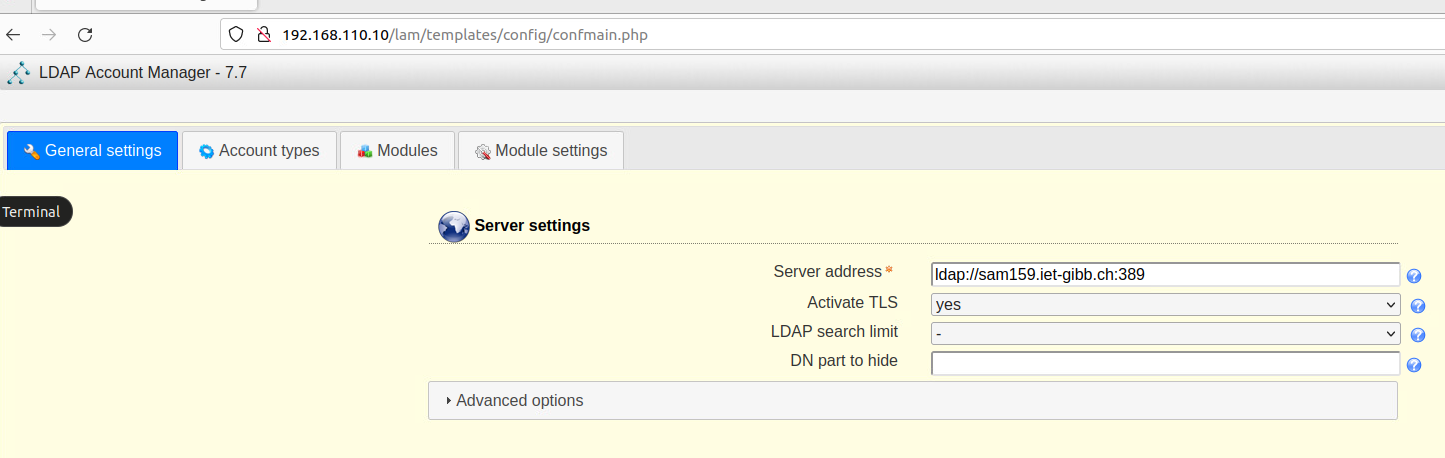
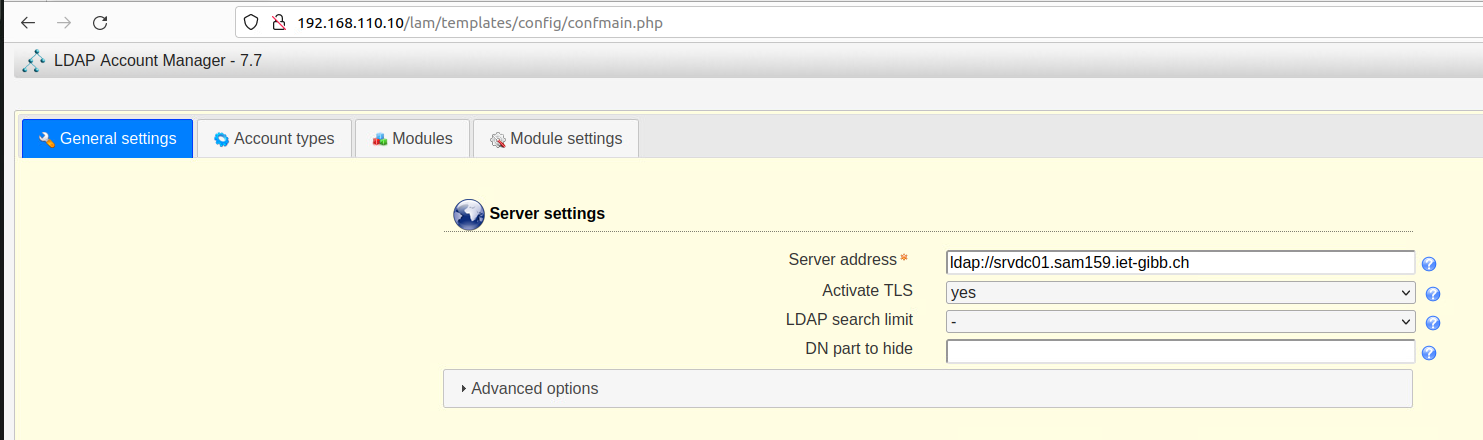
Added setup of fileservice + configuration in registry

diff --git a/README.md b/README.md
@@ -18,6 +18,12 @@ All of the Servers need to be able to communicate to each other via IPv4.
 
 As this is done for a school project the realm is called "sam159.iet-gibb.ch", but feel free to take whatever name you want to use.
 
+
+
+
+
+
+
 ### Configure DNS Server and Hostname (SRVDC01)
 
 On the SRVDC01 do this in the */etc/hosts* file:
@@ -32,6 +38,11 @@ srvdc01.sam159.iet-gibb.ch
 ```
 
 On every other Server set the **IP** of the SRVDC01 as DNS Server and **sam159.iet-gibb.ch** as search-domain (or distribute it via dhcp service)
+
+
+
+
+
 
 ### Samba installation (SRVDC01)
 
@@ -91,17 +102,17 @@ If the */etc/resolv.conf* file still has a softlink on it, remove it and create 
 Check if all settings were configured correctly in the */etc/samba/smb.conf*, it should now look simular to this:
 ```bash
 [global]
-dns forwarder = 1.1.1.1
-netbios name = SRVDC01
-realm = SAM159.IET-GIBB.CH
-server role = active directory domain controller
-workgroup = SAM159
+    dns forwarder = 1.1.1.1
+    netbios name = SRVDC01
+    realm = SAM159.IET-GIBB.CH
+    server role = active directory domain controller
+    workgroup = SAM159
 [netlogon]
-path = /var/lib/samba/sysvol/sam159.iet-gibb.ch/scripts
-read only = No
+    path = /var/lib/samba/sysvol/sam159.iet-gibb.ch/scripts
+    read only = No
 [sysvol]
-path = /var/lib/samba/sysvol
-read only = No
+    path = /var/lib/samba/sysvol
+    read only = No
 ```
 
 
@@ -133,6 +144,10 @@ Now restart the server:
 ```bash
 sudo reboot
 ```
+
+
+
+
 #### Test Services
 
 You can test if the setup works by checking if the samba (bzw. smbd) service is listening to following ports:
@@ -165,6 +180,11 @@ host -t A srvdc01.sam159.iet-gibb.ch
 ```
 
 But as we all know, real men test in production.
+
+
+
+
+
 
 #### Set up DNS Records
 
@@ -217,6 +237,11 @@ Finally you can display the FSMO Rules with the command:
 sudo samba-tool fsmo show
 ```
 
+
+
+
+
+
 ### Setup LDAP Account Manager (LAM)
 
 The LDAP Account Manager is a really ugly webinterface that basically provides a user-friendly interface to work with LDAP.
@@ -235,6 +260,11 @@ As Samba as well as LAM is officially retarded they still think unencrypted LDAP
 **INFORMATION**: StartTLS is a technique that connects the client over the unencrypted LDAP (389) and then upgrades the connection to run on top of TLS. This is really flexible as it allows you to run the connection over the LDAP Port (389) while not blocking the unencrypted LDAP portbinding.
 
 
+
+
+
+
+
 #### Setup LDAP+SSL on Samba Server
 
 To setup LDAP with StartTLS on the Samba service we need to have a SSL certificate, this can be done in three ways, using a Self-Signed Certificate (comes with limitations), using a Lets-Encrypt certificate or if you're really whealty, you can also buy a official signed certificate.
@@ -242,6 +272,11 @@ To setup LDAP with StartTLS on the Samba service we need to have a SSL certifica
 I will show you how to do it with Lets-Encrypt and with a Self-Signed certificate, if you use a officially signed certificate, you just need to add it to the *smb.conf*. 
 
 Keep in mind that you need to be the owner of the public domain if you use Lets-Encrypt, as I'm not the owner of *iet-gibb.ch*, I will use the way of the Self-Signed certificate in this tutorial, when using Lets-Encrypt it will be way easier and you can ommit some steps later on.
+
+
+
+
+
 
 ##### Lets-Encrypt Certificate
 
@@ -287,6 +322,8 @@ If you previously installed the *ldap-utils* you can now check the connections w
 # The ZZ Flag tells the ldap client to use StartTLS
 ldapsearch -H ldap://srvdc01.sam159.iet-gibb.ch -x -ZZ
 ```
+
+
 
 ##### Self Signed Certificate
 
@@ -348,6 +385,11 @@ Remember, if you use a self signed certificate authority (ca certificate) you wi
 
 
 
+
+
+
+
+
 #### Setup LDAP+SSL on LAM
 
 Now lets configure the LAM service to use the LDAP via StartTLS.
@@ -375,11 +417,15 @@ sudo ln -f /etc/ldap.conf /etc/ldap/ldap.conf
 # As some LAM versions also look for the config inside the /etc/ldap directory
 
 # Now set Read+Execute rights for the LDAP conf as apache2 doesn't run with root privileges.
-sudo chmod 755 ldap.conf
-sudo chmod 755 -R ldap
+sudo chmod 755 /etc/ldap.conf
+sudo chmod 755 -R /etc/ldap
 
 sudo systemctl restart apache2
 ```
+
+
+
+
 
 
 #### Setup LAM Profile
@@ -418,3 +464,206 @@ ldap server require strong auth = no
 ```
 
 Another issue that I've experienced is that the format: **cn=Administrator,cn=users,dc=sam159dc=iet-gibb,dc=ch** in the **List of valid user** is not working on some LAM versions, to solve it just use the user in this format: **Administrator@sam159.iet-gibb.ch**.
+
+
+After logging into the LAM interface, you can test the system by creating a user and then fetching a tgt on the server.
+
+For this, first create a user in the LDAP Account Manager.
+
+![LAM User Configuration](/assets/lamconf02.png)
+Remember to set the password for the user!
+
+To get the tgt on the server (you can also do it from a client):
+```bash
+kinit -r SAM159.IET-GIBB.CH -p felix.blume && klist
+```
+
+**INFORMATION**: The DN attribute in the LDAP Account Manager is the DistinguishedName and refers to full LDAP "path" of the user.
+Example: The user "*felix.blume*" in the OU "*users*" in the domain "*sam159.iet-gibb.ch*" has following DN: 
+"*cn=felix blume,cn=users,dc=sam159,dc=iet-gibb,dc=ch*"
+You can get the DistinguishedName,SID and other user related information like this:
+```bash
+samba-tool user show felix.blume
+```
+
+
+
+
+
+
+### Set up fileservice (SRVFS01)
+
+
+We now want to set up SRVFS01. To do this, you will need an Ubuntu server configured to use the search domain and DNS server that we set up earlier.
+
+In the commands/examples I will use following configuration:
+- Server-IP: 192.168.110.20
+- DNS: 192.168.110.10
+- Search-Domain: sam159.iet-gibb.ch
+
+
+First you need to install the samba tools aswell as the kerberos heimdal client:
+
+```bash
+# As realm you need to set sam159.iet-gibb.ch
+sudo apt install samba samba-common-bin smbclient heimdal-clients libpam-heimdal
+```
+
+**INFORMATION**: Because Linux ext4 filesystem uses UID (User IDs) and GID (Group IDs) while NTFS has a format called SID (Security IDs), Samba needs a tool like *winbind* that translates various things like the mentioned SID to UID/GID or the NTFS permissions into ext4 acl-controls vice-versa.
+
+Then we also need the winbind-tools to be installed:
+
+```bash
+sudo apt install libnss-winbind libpam-winbind
+```
+
+To make samba use the winbind translator, you need to adjust the */etc/samba/smb.conf* with following attributes under the [global] section:
+
+```bash
+[global]
+  workgroup = sam159
+  realm = SAM159.IET-GIBB.CH
+  security = ADS
+  winbind use default domain = yes
+  winbind refresh tickets = yes
+  template shell = /bin/bash
+  idmap config * : range = 10000 - 19999
+  idmap config SAM159 : backend = rid
+  idmap config SAM159 : range = 1000000 - 1999999
+  inherit acls = yes
+  store dos attributes = yes
+  client ipc signing = auto
+  vfs objects = acl_xattr
+```
+
+Check the configuration with:
+
+```bash
+testparm
+```
+
+**INFORMATION**: The parameters have following functions
+- *workgroup*: NetBIOS name
+- *realm*: fqdn realm name
+- *security*: specifys whether the server serves as domain-component
+- *winbind use default domain*: Sets the default domain, with this users can log in without explicit specify the domain.
+- *winbind refresh tickets*: Makes winbind automatically refresh kerberos tickets if they are about to expire
+- *template shell*: Sets the default shell for domain-users (with this you can e.g. log into a machine with ssh)
+- *idmap config* *: These options specify the mapping between SIDs and UIDs/GIDs
+- *inherit acls*: Defines whether permission inheritance is enabled
+- *store dos attributes*: Enables the usage of DOS attributes like read-only, hidden, etc.
+- *client ipc signing*: Defines if IPC messages are signed with a cryptographic signature every time.
+- *vfs objects*: Sets the VFS module to use for using ACLs, in our case the *acl_xattr* allows Samba to store NTFS-style ACLs in extended attributes.
+
+If the settings are set, you need to join the SRVFS01 to the domain, for this make sure that the */etc/krb5.conf* file is setup the same as it is on the domain-controller.
+
+```bash
+sudo net ads join -Uadministrator
+# There will may be a error that the dns update failed, this is because we already set the dns-record for this server
+```
+
+**INFORMATION**: Linux has a NSS (Name Service Switch) service. If a programm like samba wants to aquire an information like a users password, a group or a hostname, it asks the NSS where to look this up, the NSS then determines the order in which databases are queried.
+For example if a network-name needs to be resolved, NSS determines whether the dns or the hosts file is first queried.
+
+In the NSS configuration (*/etc/nsswitch.conf*) you need to say that as third fallback it will go to winbind:
+
+```bash
+passwd: compat systemd winbind
+group: compat systemd winbind
+shadow: compat winbind
+```
+
+Afterwards restart the related services:
+
+```bash
+sudo systemctl restart smbd nmbd winbind
+```
+
+Now you should be able to switch the user on the SRVFS01 like this:
+
+```bash
+su - administrator@M159.IET-GIBB.CH
+# We can even ommit the Domain as we set the smb.conf to use a default domain
+su - administrator
+# Because we set the default shell to bash it will now open a bash shell session
+```
+
+With the *id* command you can see the translated UID of the user, you should then see that the UID is inside the previously defined range: idmap config SAM159 : range = 1000000 - 1999999
+
+As you can see the SID of the Users created with LAM or the RSAT Tools are in this format like this: *S-1-5-21-1234567890-1234567890-1234567890-1001*
+Winbind then looks at the RID:
+*1001*
+And translates this to the range defined:
+*1000001*
+We defined this range, because just using the RID would not work as these numbers are already in use by the users on the UNIX system like the user you are currently working with.
+
+
+
+
+#### Transfer Samba configuration to Registry
+
+This step is optional, I highly recommend doing it, especially if the samba-config is changed often.
+
+There are various reasons why a file server should always be managed via the registry and not via smb.conf: 
+
+- Clients initiate their own smbd processes, reading the entire smb.conf on connection. Modifying smb.conf makes every client reload the entire file, causing increased network traffic, especially with many clients or large configurations.
+- Using the registry only transfers the changes, reducing data overhead. 
+- Unlike smb.conf, an ASCII file editable by one admin at a time, the registry is a concurrent-accessible database. 
+- Instead of SSH-ing to the server to edit smb.conf, the registry allows remote configuration through Windows' Regedit, even facilitating new share creation.
+
+
+For the Samba-Configuration we will only need the *HKLM* hive, you can enumerate a element like this:
+
+```bash
+sudo net registry enumerate HKLM\\software
+```
+
+You can also access the registry over remote procedure calls:
+
+```bash
+# The k flag is used to authenticate with kerberos
+sudo net rpc registry enumerate HKLM\\software -k -S srvfs01.sam159.iet-gibb.ch
+```
+
+**INFORMATION**: The registry in the samba environment is stored in */var/lib/samba/registry.tdb* and only accessible by *root*.
+
+
+Now you can now import the local */etc/samba/smb.conf* configuration into the Registry like this:
+
+```bash
+sudo net conf import /etc/samba/smb.conf && sudo net conf list
+```
+
+After the config is imported, you can replace all options from the */etc/samba/smb.conf* that are contained in the [global] section with this:
+
+```bash
+[global]
+    config backend = registry
+```
+
+Now all samba services will load the config from the registry. You can check this by executing *testparm*. The *testparm* command should, among other things, output something like this
+*lp_load_ex: Switch to backend registration configuration*
+
+
+
+
+
+#### Setup Samba Shares
+
+
+
+### Setup Windows client for endusers
+
+### Setup Linux client for endusers
+
+### Control Active-Directory with RSAT-Tools from Windows
+
+If you 
+
+
+
+
+
+
+
+
